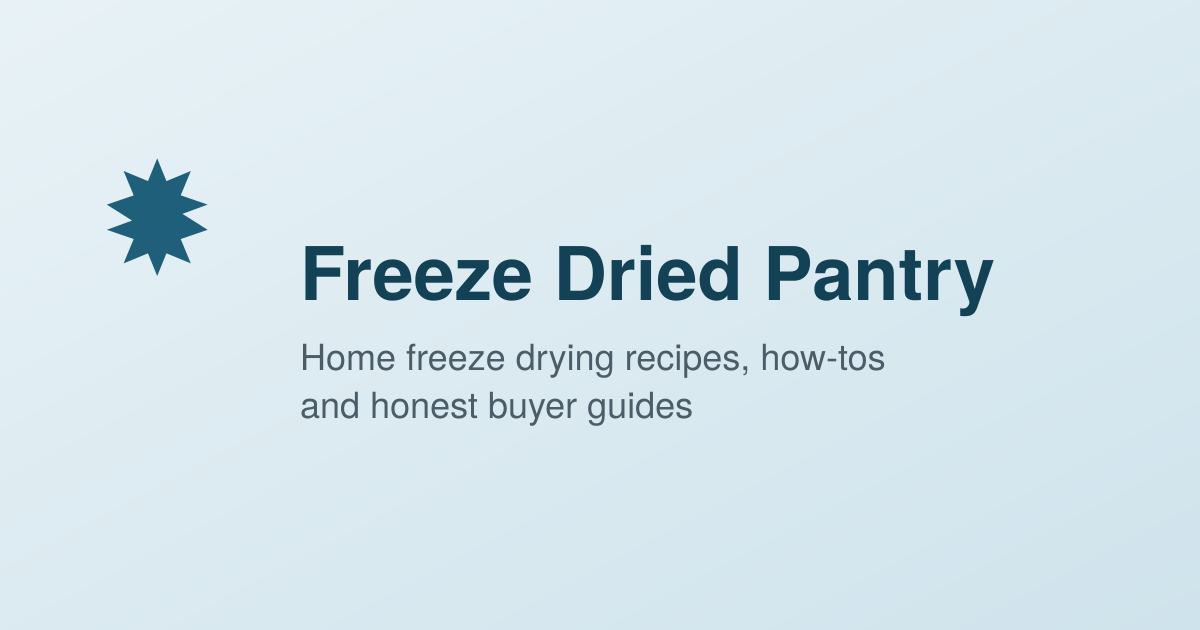
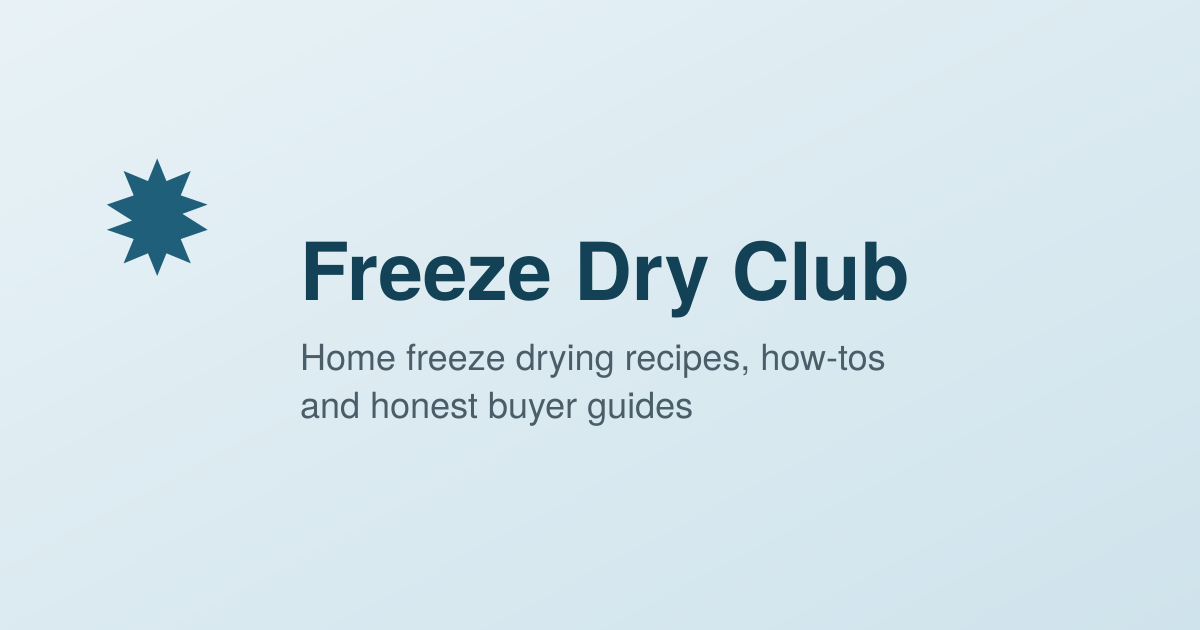
Rebrand to Freeze Dry Club on freezedryclub.com
Claude-Session: https://claude.ai/code/session_01LRHKxpZSpWZk1MBhZsTSSQ

Changed region(s): [[0.2467, 0.3619, 0.8325, 0.5127]]

diff --git a/README.md b/README.md
@@ -1,4 +1,4 @@
-# Freeze Dried Pantry
+# Freeze Dry Club (freezedryclub.com)
 
 Astro static site with SEO built into every page, plus an automated article pipeline.
 
